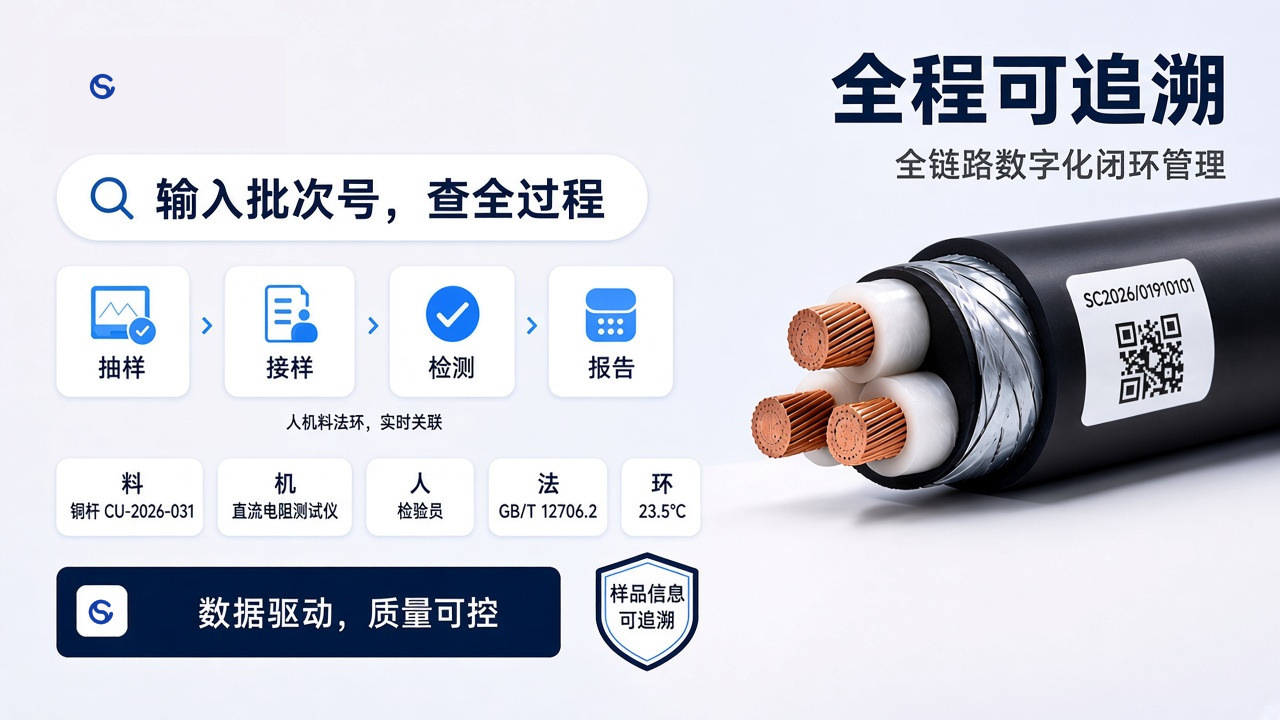
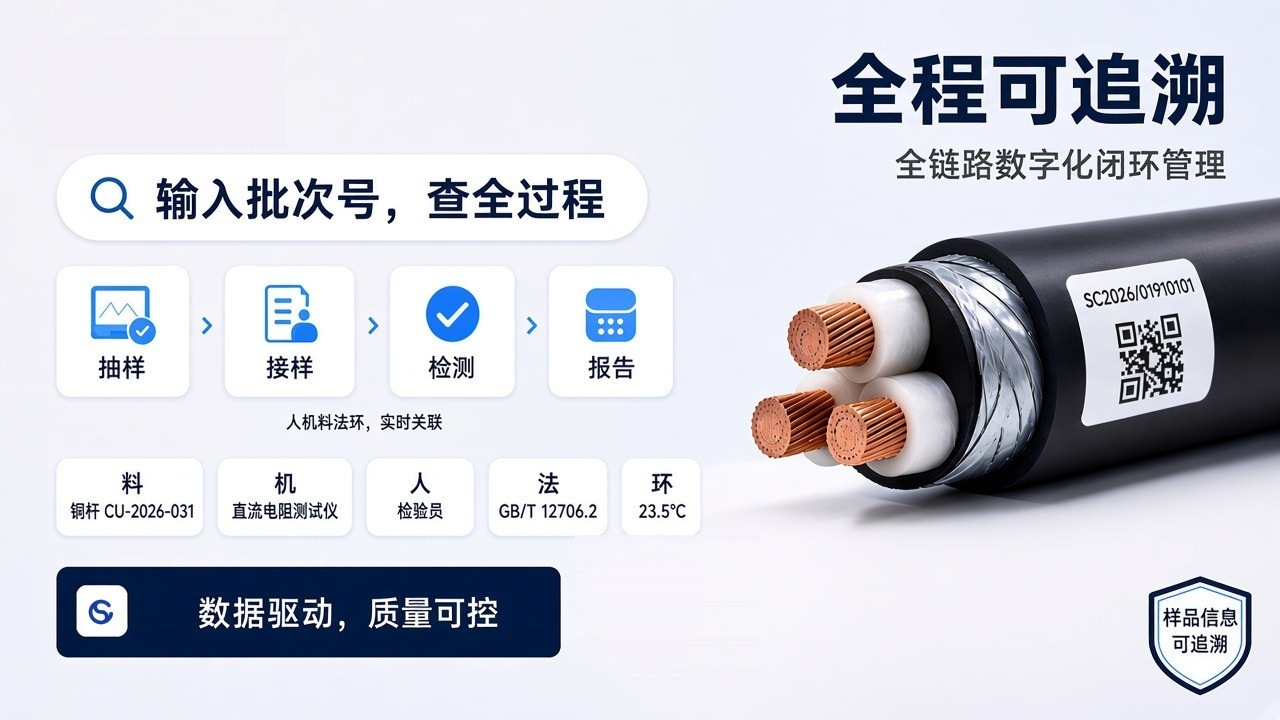
fix: 优势4配图去掉左上角标识，盾牌移到右下角

Changed region(s): [[0.875, 0.7944, 1.0, 0.9778], [0.4375, 0.7639, 0.5625, 0.9472], [0.0625, 0.0917, 0.0938, 0.1528]]

diff --git a/shucan-lims-brochure.html b/shucan-lims-brochure.html
@@ -396,7 +396,7 @@
             </ul>
           </div>
           <div class="visual">
-            <img class="illu" src="assets/brochure/15-trace.jpg?v=mark" alt="右上全程可追溯，左侧按批次号查询抽样到报告，人机料法环实时关联" />
+            <img class="illu" src="assets/brochure/15-trace.jpg?v=corner" alt="右上全程可追溯，左侧按批次号查询抽样到报告，人机料法环实时关联，右下角样品信息可追溯" />
             <p class="cap">批次号或条码可追到原料、设备、人员和温度。</p>
           </div>
         </article>
